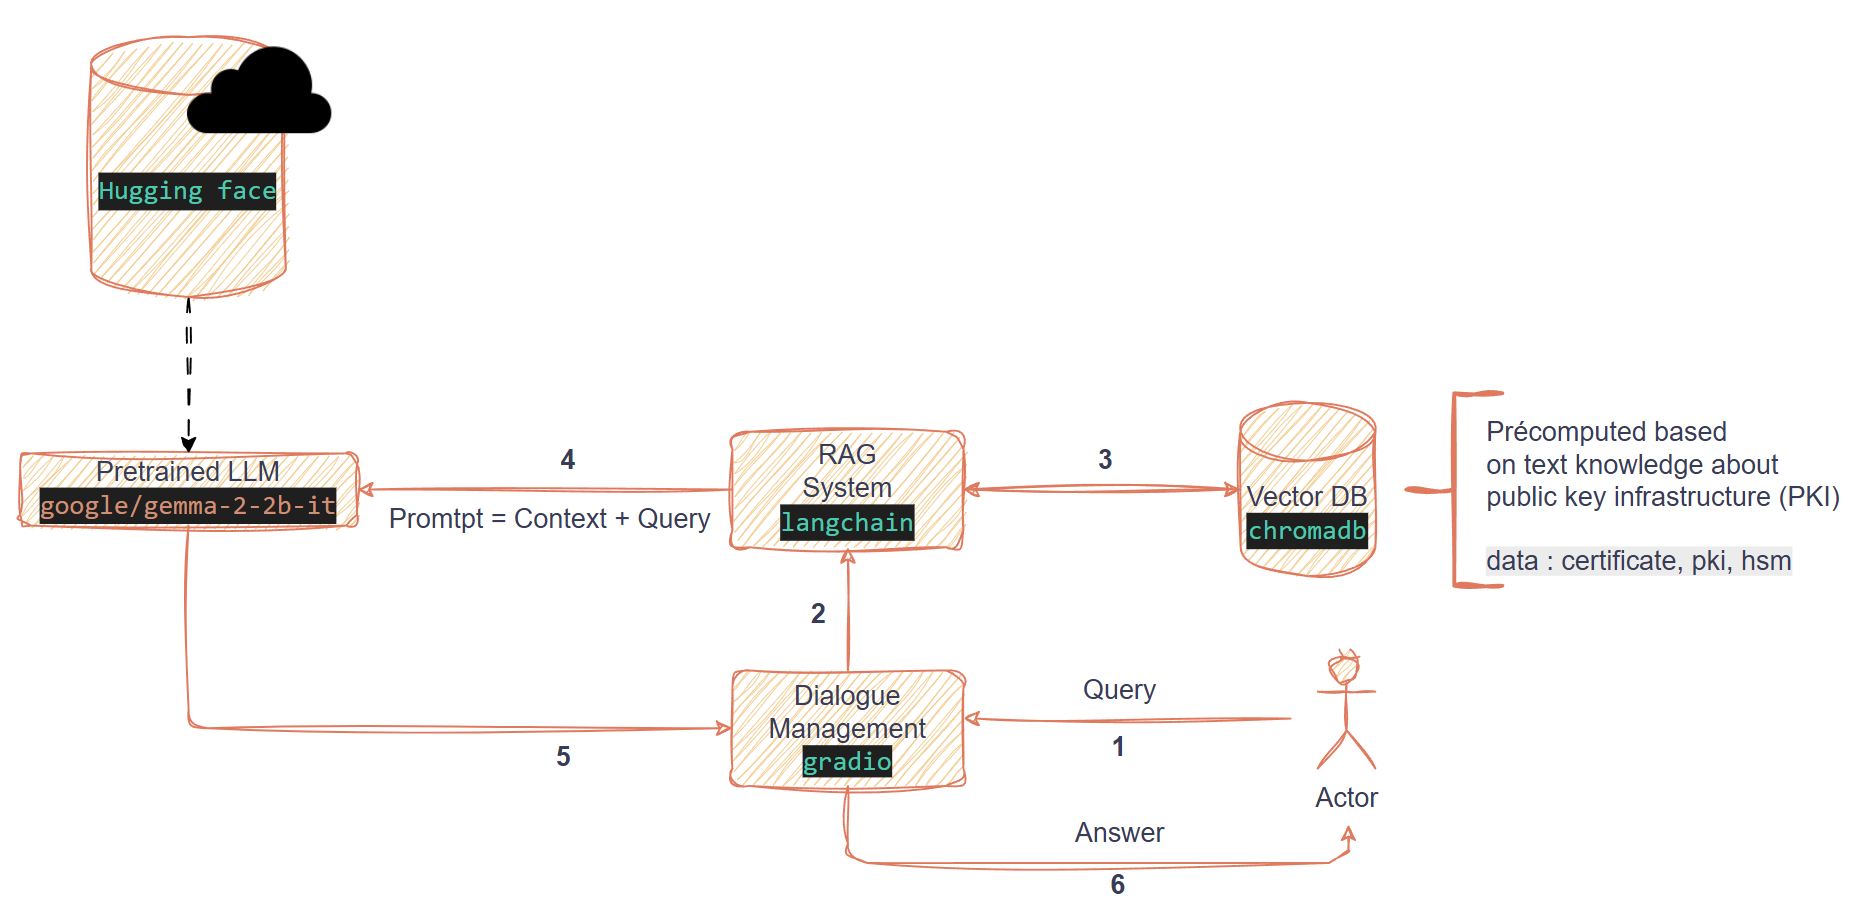
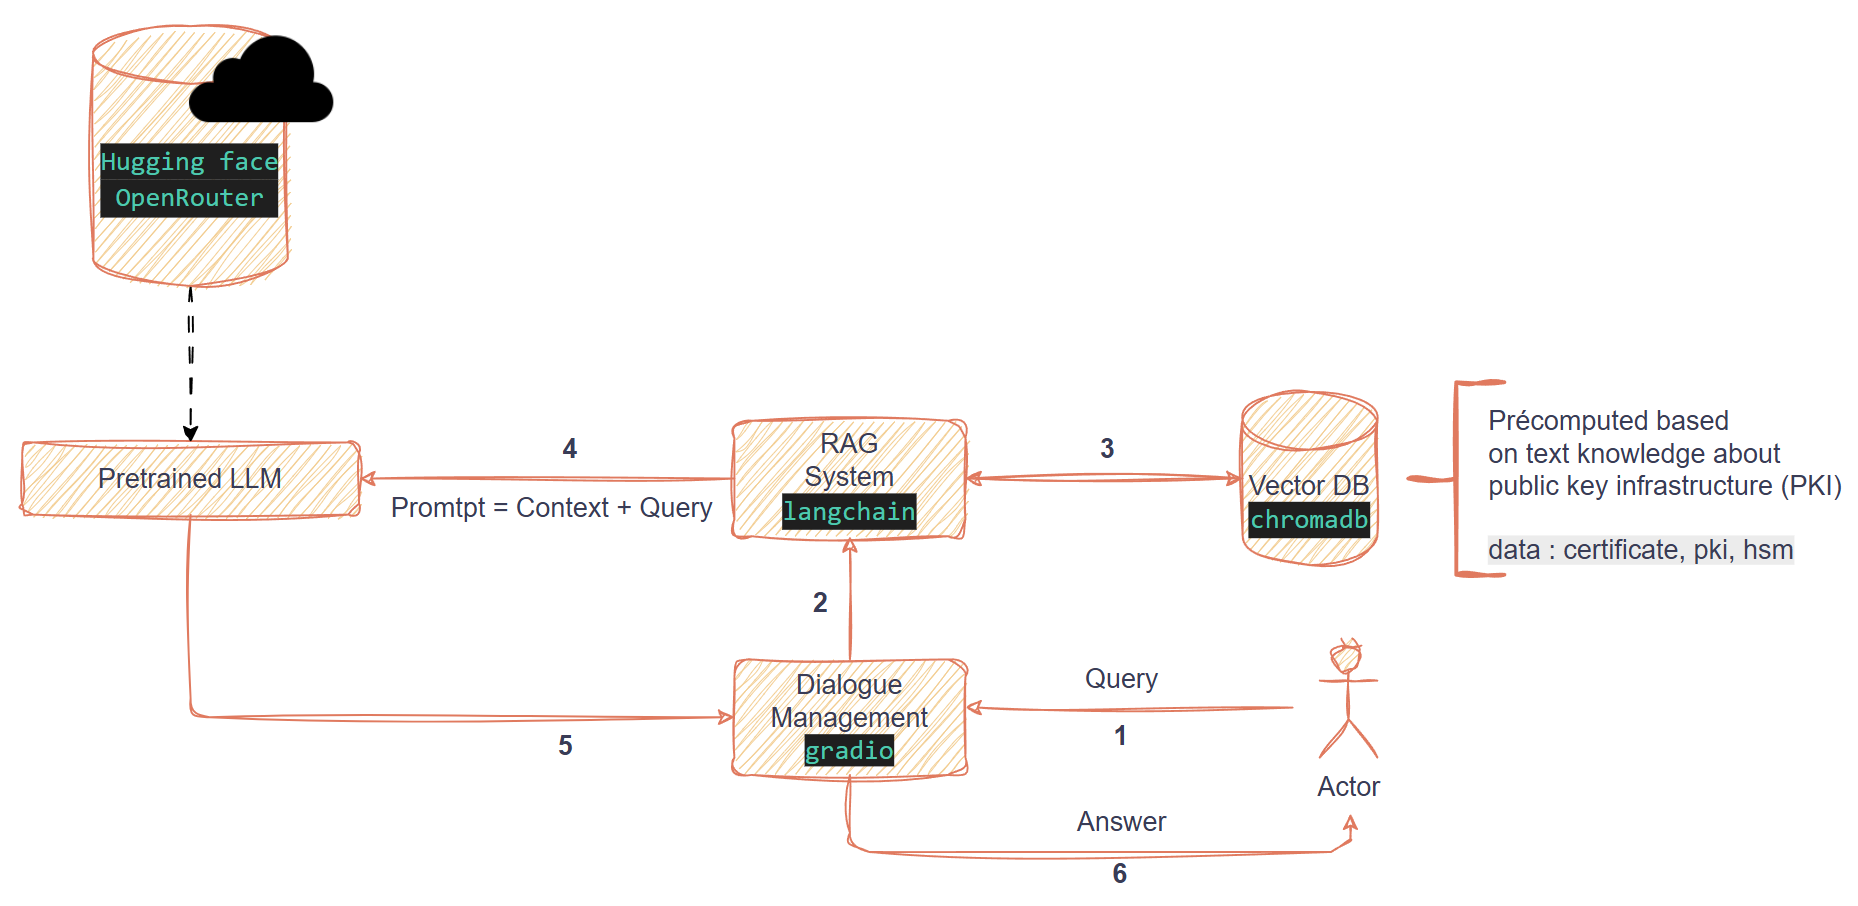
update readme

diff --git a/README.md b/README.md
@@ -8,10 +8,7 @@ Build a Public Key Infrastructure (PKI) expert system using a text-based knowled
 ## Features
 
 * **Retrieval-Augmented Generation (RAG)**
-  Combines vector search (via ChromaDB) with text generation (using free models from Hugging Face).
-
-* **LLM Integration**
-  Supports models like for high-quality response generation.
+  Combines vector search (via ChromaDB) with text generation (using free models from Hugging Face/openrouter).
 
 * **Automated Knowledge Processing**
   Automatically chunks and indexes documents from the local `knowledge/` folder for efficient retrieval.
@@ -27,22 +24,24 @@ Build a Public Key Infrastructure (PKI) expert system using a text-based knowled
 
 ```text
 .
-│
-├── knowledge/                 # Folder containing source documents (e.g., .txt files)
-├── llm_loader.py              # Logic for loading the language model (LLM)
-├── vector_loader.py           # Text chunking and ChromaDB integration
-├── test.py                    # Script or module for testing
-├── gr_gui.py                  # Gradio-based graphical user interface
-├── dialogue_mngr.py           # Functions for question-answer interaction
-├── query.py                   # Logic for handling interactive assistant queries
-├── rag.py                     # RAG (Retrieval-Augmented Generation) core implementation
-├── main.py                    # Entry point of the application
-└── README.md                  # Project documentation
+├── Dockerfile                 # Containerization instructions
+├── LICENSE                    # Project license
+├── README.md                  # Project documentation (this file)
+├── db/
+│   └── chroma_db              # ChromaDB vector database files
+├── docs/
+│   └── architecture.png       # System architecture diagram
+├── requirements.txt           # Python dependencies
+├── src/
+    ├── app.py                 # Main application entry point
+    ├── embedding_storage.py   # Embedding storage and retrieval logic
+    ├── knowledge/             # Folder for source documents (e.g., .txt files)
+    ├── llm_pipeline.py        # Language model pipeline and integration
+    ├── rag.py                 # RAG (Retrieval-Augmented Generation) core implementation
+    └── test.py                # Test scripts and utilities
+
 ```
 
 ## Architecture
 
 ![alt text](docs/architecture.png)
-
-
-![alt text](image.png)
